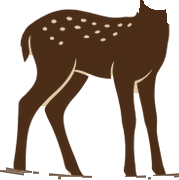
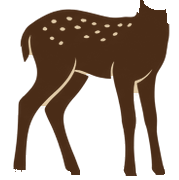
Hertjes bewegen duidelijker op de gsm: hert besnuffelt het jong, grotere kopbewegingen, jong huppelt 2x

Changed region(s): [[0.2793, 0.9444, 0.5307, 1.0], [0.6983, 0.9444, 1.0, 1.0], [0.0, 0.9167, 0.2235, 0.9722]]

diff --git a/hert/index.html b/hert/index.html
@@ -103,7 +103,7 @@
 'use strict';
 const $ = (id) => document.getElementById(id);
 const S = KerstMotor.spoor;
-const VERSIE = '20261111j';
+const VERSIE = '20261111l';
 const MAAT = 4 * 60 / 116, INTRO = 2;
 const tM = (m) => (m - 1 + INTRO) * MAAT;            // begin melodiemaat m (s)
 const T = { laser: tM(1), dieren: tM(3), jongKijkt: tM(5), kijktOp: tM(7), kerstman: tM(9), sterrenstof: tM(14), naam: tM(16) };
@@ -111,7 +111,12 @@ const EINDE = T.naam + 6;                            // slotakkoord klinkt ± 4 
 const ATELIER = '';                                  // naam/logo van het atelier (nog te kiezen door de maker); leeg = niet tonen
 const PARAM = new URLSearchParams(location.search);
 const LASER_DUUR = T.dieren - T.laser;
-const CAM = 0.3;                                    // s: camera volgt het hert (keuring D1)
+const HUP = tM(13) + MAAT / 4;                      // afzet eerste sprongetje jong (tel 2 van maat 13 = 29,48 s)
+const CAM = 1.0;                                    // s: camera volgt het hert (keuring D1); gsm-keuring 11-11: camera pas
+                                                    //    als het opkijken grotendeels klaar is (camera stil tijdens grote beweging)
+/* Gsm-keuring 11-11 (vaste regel: beweging in MM op een echte gsm, bijbeweging >= 1,5 mm, hoofdactie >= 2,5 mm):
+ * alle bewegingen groter gemaakt. Grenzen uit de naadtest (motor_test.html, GROOT-gevallen): kop tot +8/-10 gr met
+ * 10 px omhoog of 8 px omlaag = 0 gaatjes; oren max 8 gr (10-12 gr gaf 1-2 gaatjes aan de oorvoet); ademen 2,5 %. */
 
 /* ===== Tijdlijn scène 1-4 (sleutelmomenten in seconden) ===== */
 const TL = {
@@ -127,16 +132,29 @@ const TL = {
   dieptZoom: S([[0, 1], [T.dieren + 0.2, 1], [T.dieren + 3.2, 1.04, 'zacht'], [T.kijktOp + CAM, 1.04], [T.kijktOp + CAM + 1.6, 1, 'zacht']]),
   dieptDx: S([[0, 0], [T.dieren + 0.2, 0], [T.dieren + 3.2, 4, 'zacht'], [T.kijktOp + CAM, 4], [T.kijktOp + CAM + 1.6, 0, 'zacht']]),
   // hert: oor-tikjes in scène 3, kop omhoog naar de maan (linksboven) in scène 4
-  oorL: S([[0, 0], [T.dieren + 2.0, 0], [T.dieren + 2.12, -6, 'uit'], [T.dieren + 2.35, 0, 'naveer'],
-           [T.dieren + 6.1, 0], [T.dieren + 6.22, -6, 'uit'], [T.dieren + 6.45, 0, 'naveer']]),
-  oorR: S([[0, 0], [T.dieren + 3.0, 0], [T.dieren + 3.12, 6, 'uit'], [T.dieren + 3.35, 0, 'naveer']]),   // 11,3 s: niet samen met het jong (maat 5)
-  kop: S([[0, 0], [T.kijktOp, 0], [T.kijktOp + 1.2, 3, 'zacht'], [T.kerstman + 4.6, 3], [T.kerstman + 8.0, -2, 'zacht'],   // keuring D2: hert kijkt de slee na
-        [T.naam - 0.4, -2], [T.naam + 0.8, 0, 'zacht']]),   // keuring D3: op de slotnoot kijkt het hert naar de naam
-  kopOp: S([[0, 0], [T.kijktOp, 0], [T.kijktOp + 1.2, -6, 'zacht'], [T.naam - 0.4, -6], [T.naam + 0.8, -2, 'zacht']]),   // kop zakt terug (D3)
+  // oren: dubbel tikje (2x snel) = beter zichtbaar dan één groter tikje (oren max 8 gr, naadtest)
+  oorL: S([[0, 0], [T.dieren + 2.0, 0], [T.dieren + 2.1, -8, 'uit'], [T.dieren + 2.28, 0, 'naveer'], [T.dieren + 2.38, -8, 'uit'], [T.dieren + 2.6, 0, 'naveer'],
+           [T.dieren + 5.4, 0], [T.dieren + 5.5, -8, 'uit'], [T.dieren + 5.75, 0, 'naveer']]),   // 13,7 s: oor draait mee bij het besnuffelen
+  oorR: S([[0, 0], [T.dieren + 3.0, 0], [T.dieren + 3.1, 8, 'uit'], [T.dieren + 3.28, 0, 'naveer'], [T.dieren + 3.38, 8, 'uit'], [T.dieren + 3.6, 0, 'naveer']]),   // 11,3 s: niet samen met het jong (maat 5)
+  // scène 3 (gsm-keuring): het hert buigt de kop naar het jong en besnuffelt het (13,1-15,1 s), dan terug
+  kop: S([[0, 0], [T.jongKijkt + 0.7, 0], [T.jongKijkt + 1.9, 8, 'zacht'], [T.jongKijkt + 2.7, 8], [T.kijktOp - 0.4, 0, 'zacht'],
+        [T.kijktOp, 0], [T.kijktOp + 1.2, 8, 'zacht'], [T.kerstman + 4.6, 8], [T.kerstman + 8.0, -10, 'zacht'],   // D2: kijkt de slee na
+        [T.naam - 0.4, -10], [T.naam + 0.8, 0, 'zacht']]),   // D3: op de slotnoot kijkt het hert naar de naam
+  kopOp: S([[0, 0], [T.jongKijkt + 0.7, 0], [T.jongKijkt + 1.9, 8, 'zacht'], [T.jongKijkt + 2.7, 8], [T.kijktOp - 0.4, 0, 'zacht'],
+          [T.kijktOp, 0], [T.kijktOp + 1.2, -10, 'zacht'], [T.naam - 0.4, -10], [T.naam + 0.8, 8, 'zacht']]),   // + = omlaag (besnuffelen, naar de naam)
   // jong: maat 5 kijkt naar het hert (rechts = met de klok mee), scène 4 volgt omhoog een halve tel later
-  jong: S([[0, 0], [T.jongKijkt, 0], [T.jongKijkt + 0.9, -6, 'zacht'], [T.kijktOp - 0.6, -6], [T.kijktOp, 0, 'zacht'],
-           [T.kijktOp + 0.5, 0], [T.kijktOp + 1.7, 4, 'zacht'], [T.naam - 0.1, 4], [T.naam + 1.1, -2, 'zacht']]),   // jong volgt het hert (D3)
+  // jong (gsm-keuring): -20 / +16 gr (naadtest: tot +-24 gr = 0 gaatjes) zodat het kopje >= 1,5 mm beweegt op de gsm
+  jong: S([[0, 0], [T.jongKijkt, 0], [T.jongKijkt + 0.9, -20, 'zacht'], [T.kijktOp - 0.6, -20], [T.kijktOp, 0, 'zacht'],
+           [T.kijktOp + 0.5, 0], [T.kijktOp + 1.7, 16, 'zacht'], [T.naam - 0.1, 16], [T.naam + 1.1, -10, 'zacht']]),   // jong volgt het hert (D3)
   adem: S([[0, 0], [T.dieren, 0], [T.dieren + 1, 1, 'zacht']]),              // ademen begint na het graveren
+  // stap B gsm-keuring: het jong huppelt 2x van blijdschap als de slee wegvliegt (maat 13, op de tellen; hert is dan
+  // klaar met nakijken = geen 2 blikvangers tegelijk). Hoogte in bronpixels (56 = 2,6 mm op de Pixel 10).
+  // Omhoog vertragend ('uit'), omlaag versnellend ('in') = sprongboog; indrukken bij afzet/landing, uitrekken in de lucht.
+  huppel: S([[0, 0], [HUP, 0], [HUP + 0.22, -56, 'uit'], [HUP + 0.44, 0, 'in'],
+             [HUP + 0.58, 0], [HUP + 0.78, -44, 'uit'], [HUP + 0.98, 0, 'in']]),
+  indruk: S([[0, 0], [HUP - 0.18, 0], [HUP - 0.02, -0.07, 'zacht'], [HUP + 0.04, 0.05, 'uit'], [HUP + 0.2, 0, 'zacht'],
+             [HUP + 0.42, 0], [HUP + 0.48, -0.07, 'uit'], [HUP + 0.56, 0, 'zacht'], [HUP + 0.6, 0.04, 'uit'], [HUP + 0.74, 0, 'zacht'],
+             [HUP + 0.96, 0], [HUP + 1.02, -0.06, 'uit'], [HUP + 1.22, 0, 'zacht']]),
   // scène 5 (D2): vluchtparameter u langs de boog; u = 0,5 = kerstman precies voor de maan (pose), daar vertraagt hij
   // scène 5: vluchtparameter u = sleeU(t) (zie hieronder; keuring D2: doorlopende snelheid, geen hapering)
   // scène 6: kaart schuift rustig omhoog TIJDENS het sterrenstof (storyboard 3.1: naam verschijnt op een stilstaande kaart)
@@ -339,6 +357,24 @@ function tekenStof(t) {
   c.globalAlpha = 1;
 }
 
+/* ===== Schaduw van het jong tijdens een sprongetje (stap B) =====
+ * Alleen in de lucht (staand heeft de tekening geen schaduw). Hoe hoger, hoe kleiner en lichter. Getekend op het
+ * kaartcanvas in het tekening-assenstelsel, met dezelfde camera als de laag 'dichtbij' (de dieren horen daarbij). */
+function schaduwJong(st, cam) {
+  const h = -((st.schuif.jong_lijf || [0, 0])[1]);
+  if (h < 0.5) return;
+  const doek = $('doek'), c = doek.getContext('2d'), f = kaartMotor.lagen.diepte[kaartMotor.lagen.dieren_horen_bij];
+  const [mx, my] = KerstMotor.CAMERA.midden, s = 1 + (cam.zoom - 1) * f;
+  c.save();
+  c.setTransform(doek.width / 1200, 0, 0, doek.height / 795, 0, 0);
+  c.translate(mx + cam.dx * f, my); c.scale(s, s); c.translate(-mx, -my);
+  const krimp = 1 - Math.min(0.45, h / 130);
+  c.globalAlpha = 0.22 * Math.min(1, h / 8) * krimp;
+  c.fillStyle = '#4a2c17';
+  c.beginPath(); c.ellipse(500, 588, 70 * krimp, 7 * krimp, 0, 0, 2 * Math.PI); c.fill();
+  c.restore();
+}
+
 /* ===== Hoofdlus ===== */
 let ctx = null, muziek = null, kaartMotor = null, schetsKlaar = false, laatsteMotorT = -1, gestopt = false, lusLoopt = false;
 const RUST_STOP = EINDE + 120;                       // keuring D3: eindbeeld blijft leven (sneeuw, ademen), na 2 min stil om de batterij te sparen
@@ -347,8 +383,8 @@ function staatOp(t) {
   return {
     camera: { zoom: TL.dieptZoom(t), dx: TL.dieptDx(t) },
     hoek: { hert_kop: TL.kop(t), hert_oor_l: TL.oorL(t), hert_oor_r: TL.oorR(t), jong_kop: TL.jong(t) },
-    schuif: { hert_kop: [0, TL.kopOp(t)] },
-    adem: { hert_lijf: a * 0.013 * Math.sin(t * 2 * Math.PI / 3.2), jong_lijf: a * 0.014 * Math.sin(t * 2 * Math.PI / 2.6 + 1) },
+    schuif: { hert_kop: [0, TL.kopOp(t)], jong_lijf: [0, TL.huppel(t)] },
+    adem: { hert_lijf: a * 0.025 * Math.sin(t * 2 * Math.PI / 3.2), jong_lijf: a * 0.028 * Math.sin(t * 2 * Math.PI / 2.6 + 1) + TL.indruk(t) },   // gsm-keuring: 2,5 %
   };
 }
 function teken() {
@@ -371,7 +407,7 @@ function tekenOp(t) {
   // scène 2: laser
   laserScene(t);
   // tekening: vóór scène 3 stil (één keer tekenen), daarna elk beeld
-  if (t >= T.dieren - 0.05 || laatsteMotorT < 0) { kaartMotor.teken(staatOp(t)); laatsteMotorT = t; }
+  if (t >= T.dieren - 0.05 || laatsteMotorT < 0) { const st = staatOp(t); const cam = kaartMotor.teken(st); laatsteMotorT = t; schaduwJong(st, cam); }
   tekenLucht(t);
   tekenSneeuw($('sneeuwAchter'), vlokA, t, false, false);
   tekenSneeuw($('sneeuwVoor'), vlokV, t, true, true);
